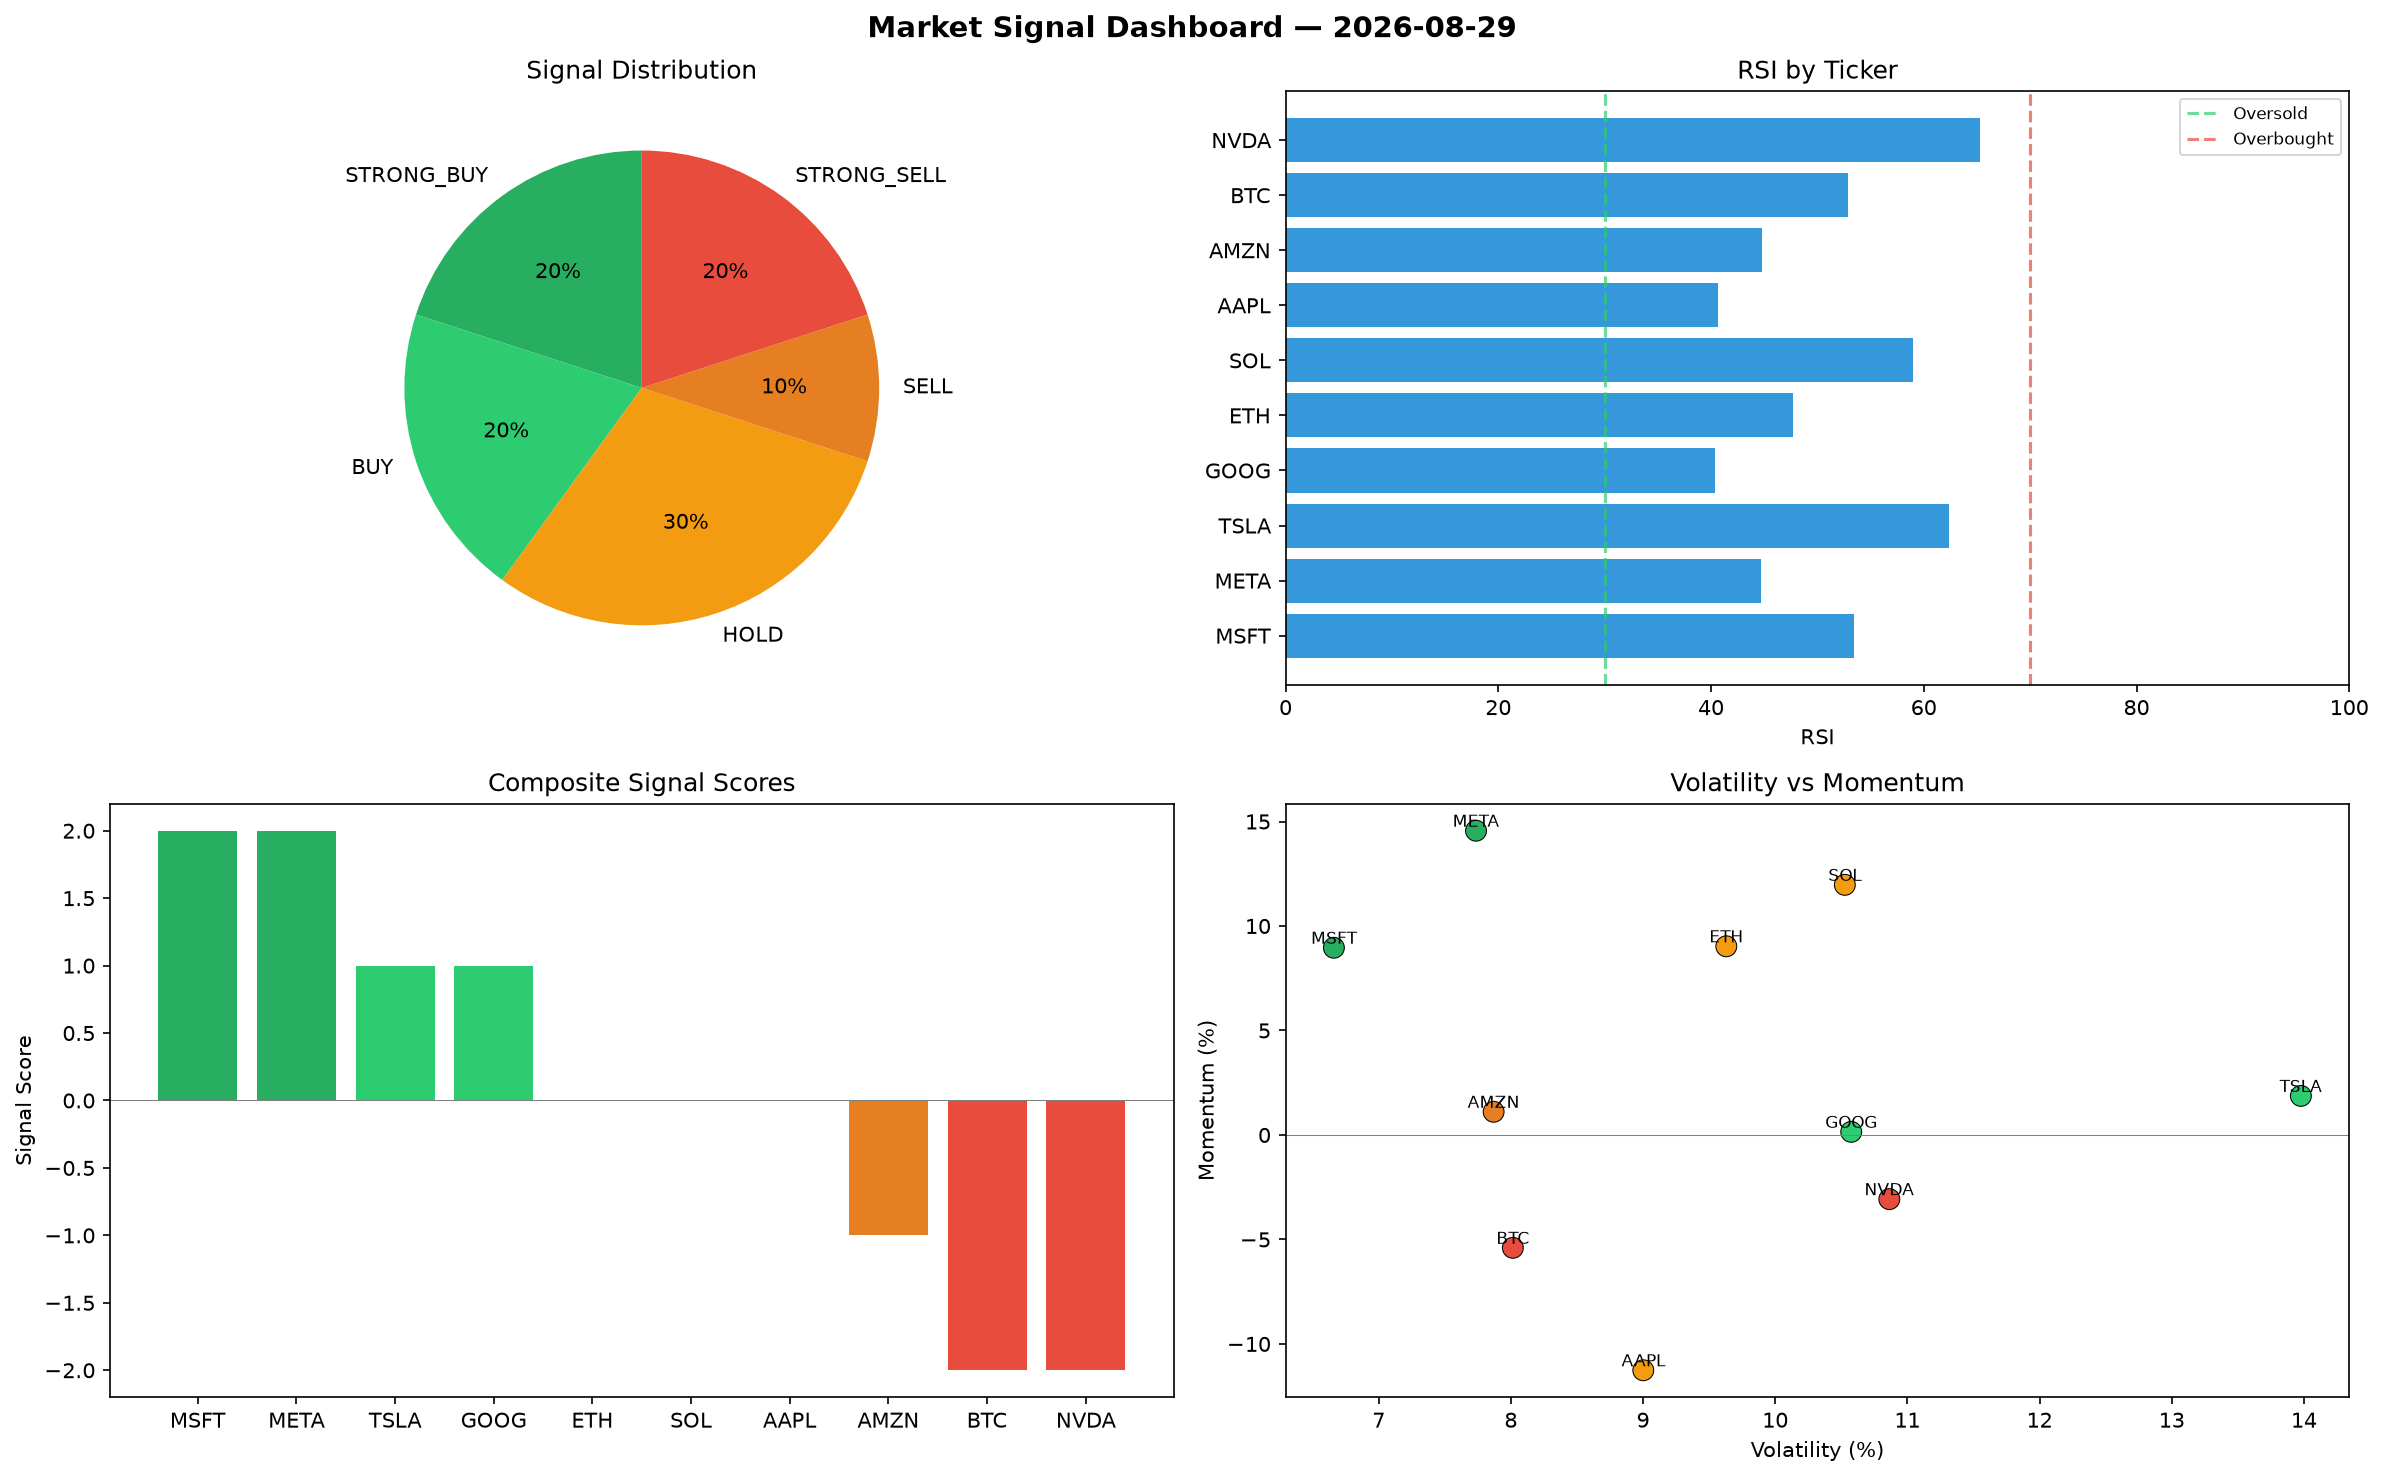
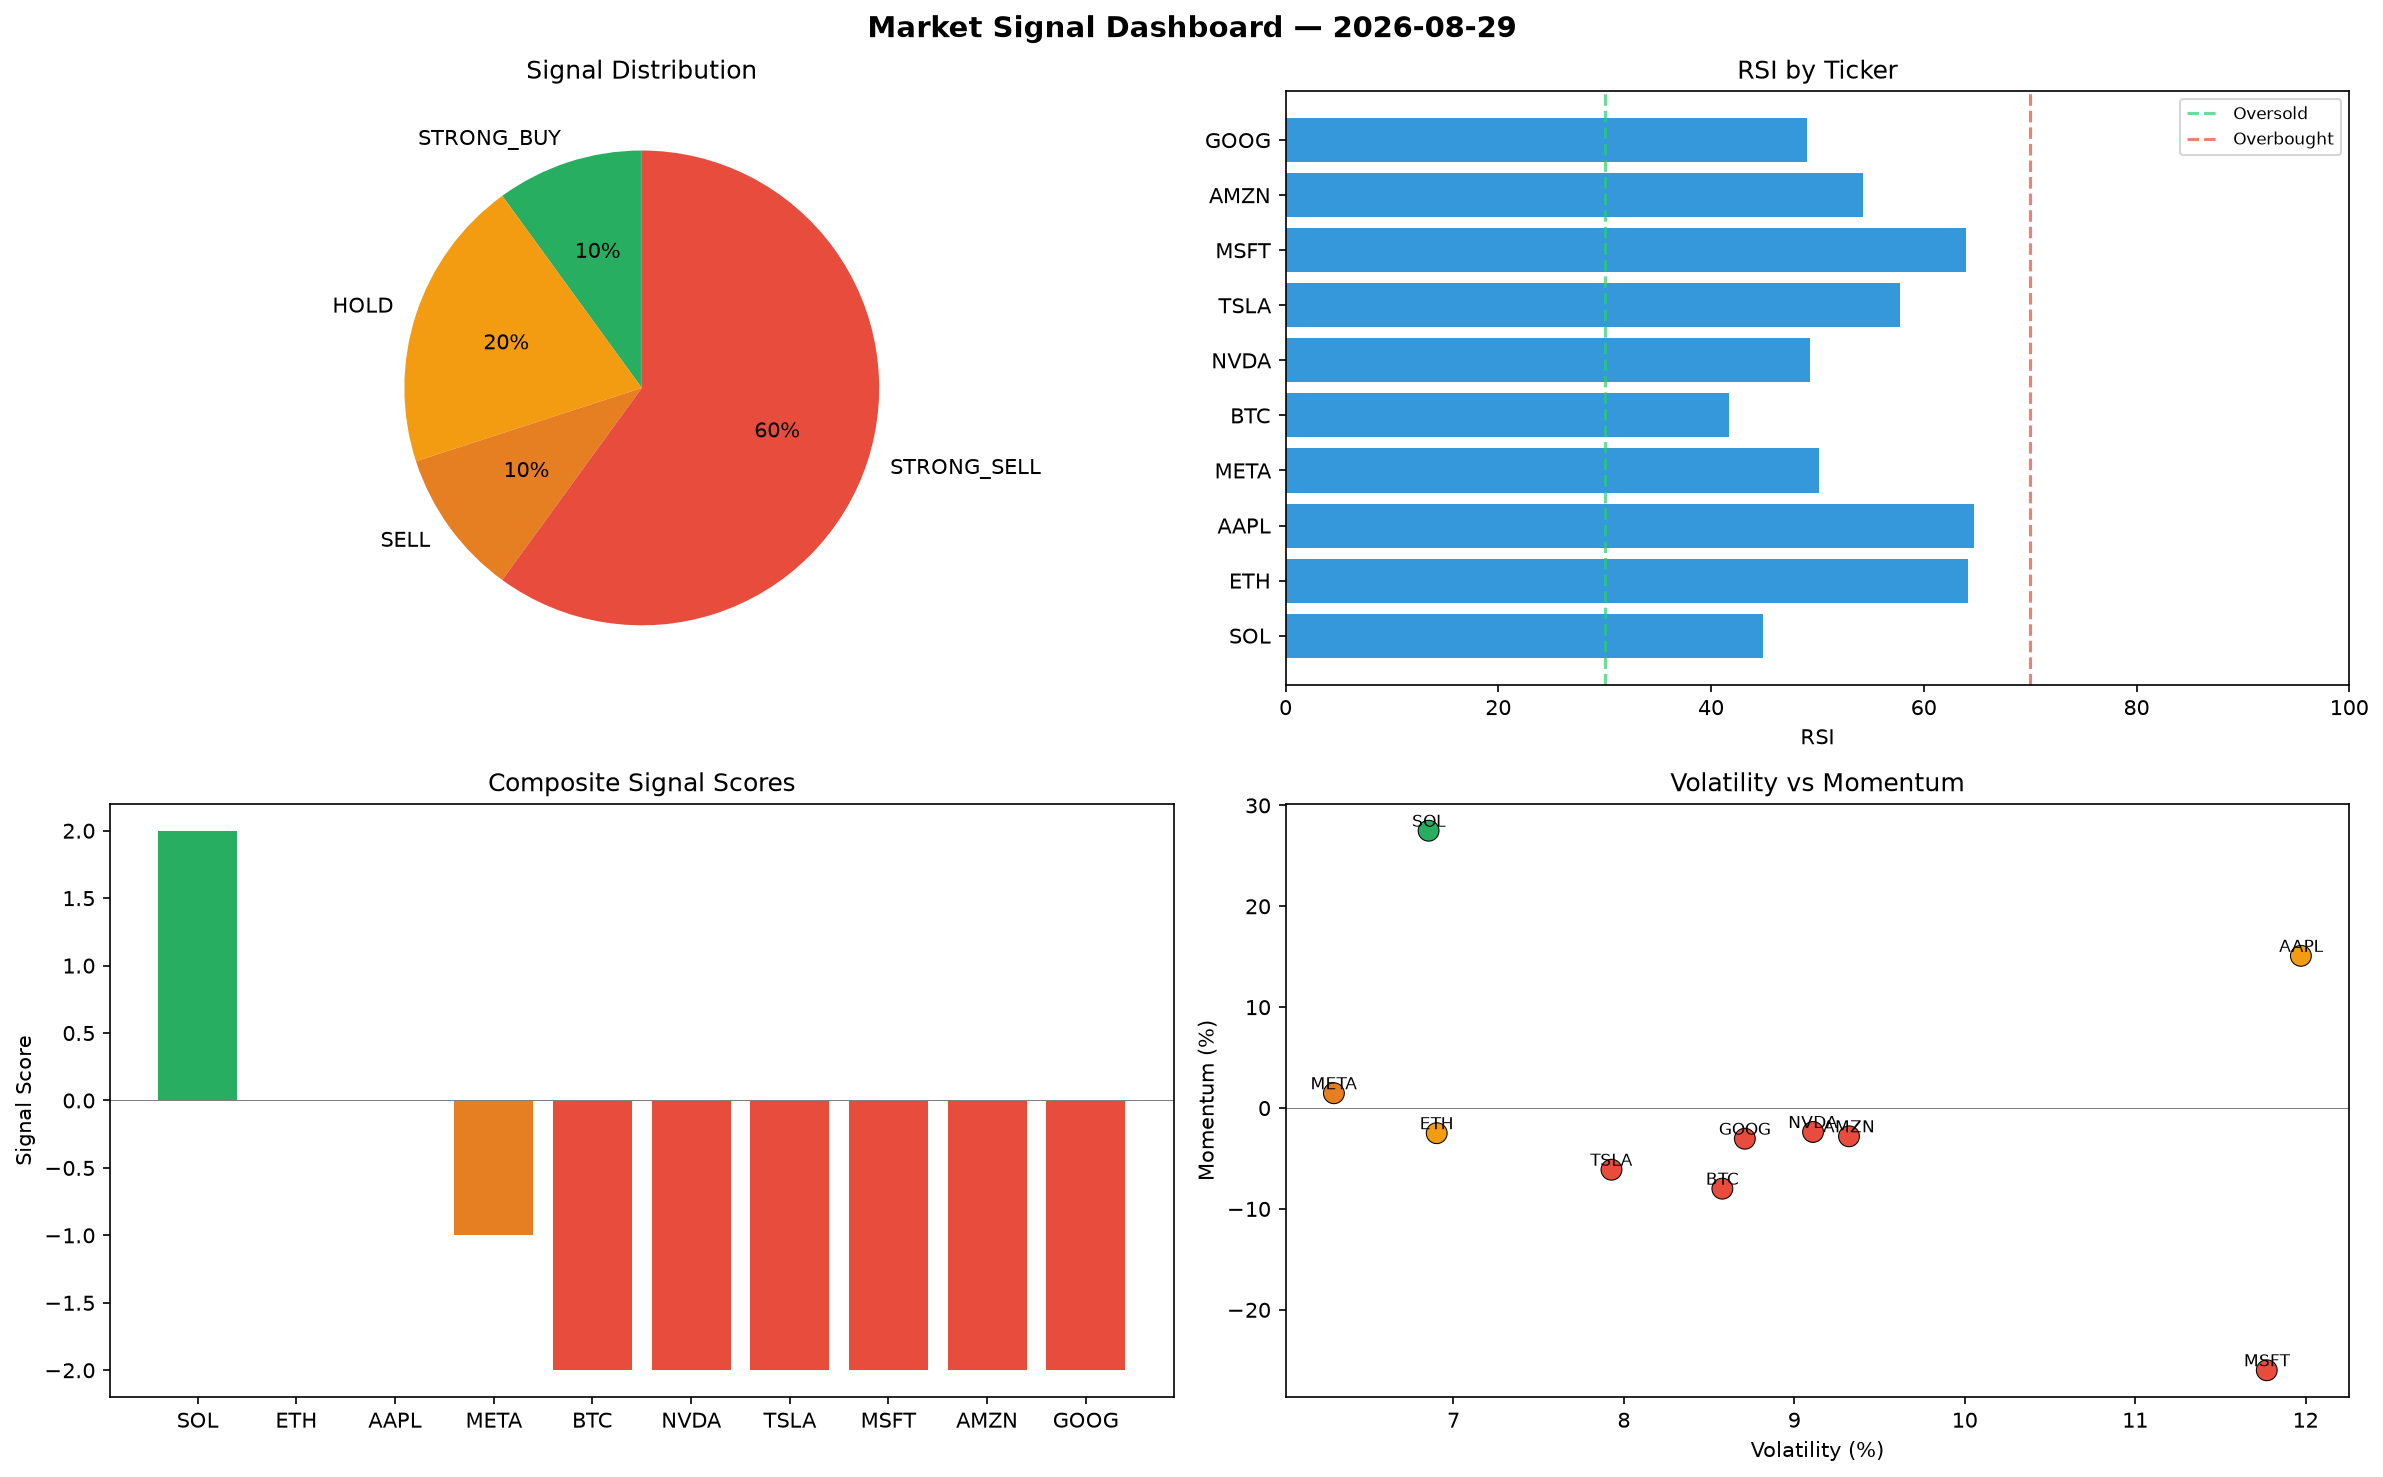
automated-bots: market signals 2026-08-29T09:15

diff --git a/logs/2026-08-29.md b/logs/2026-08-29.md
@@ -1,6 +1,6 @@
 # Market Signal Report — 2026-08-29
 
-**Run ID:** `2268d903f2` | **Buy:** 4 | **Sell:** 3 | **Hold:** 3
+**Run ID:** `b0d88170aa` | **Buy:** 1 | **Sell:** 7 | **Hold:** 2
 
 ![Dashboard](2026-08-29_dashboard.png)
 
@@ -8,28 +8,28 @@
 
 | Ticker | Price | Signal | Score | RSI | Momentum | Confidence |
 |--------|-------|--------|-------|-----|----------|------------|
-| MSFT | $1851.83 | **STRONG_BUY** | 2 | 53.47 | 0.0896 | 0.5 |
-| META | $3069.73 | **STRONG_BUY** | 2 | 44.7 | 0.1456 | 0.5 |
-| TSLA | $68.78 | **BUY** | 1 | 62.4 | 0.0187 | 0.25 |
-| GOOG | $2481.7 | **BUY** | 1 | 40.37 | 0.0015 | 0.25 |
-| ETH | $471.79 | **HOLD** | 0 | 47.68 | 0.0903 | 0.0 |
-| SOL | $3553.85 | **HOLD** | 0 | 58.98 | 0.1197 | 0.0 |
-| AAPL | $2716.12 | **HOLD** | 0 | 40.7 | -0.1126 | 0.0 |
-| AMZN | $69.16 | **SELL** | -1 | 44.83 | 0.0111 | 0.25 |
-| BTC | $2687.04 | **STRONG_SELL** | -2 | 52.86 | -0.054 | 0.5 |
-| NVDA | $2694.57 | **STRONG_SELL** | -2 | 65.28 | -0.0307 | 0.5 |
+| SOL | $5657.13 | **STRONG_BUY** | 2 | 44.84 | 0.2749 | 0.5 |
+| ETH | $3424.1 | **HOLD** | 0 | 64.15 | -0.0249 | 0.0 |
+| AAPL | $733.76 | **HOLD** | 0 | 64.71 | 0.1509 | 0.0 |
+| META | $397.62 | **SELL** | -1 | 50.12 | 0.0147 | 0.25 |
+| BTC | $3723.59 | **STRONG_SELL** | -2 | 41.68 | -0.0799 | 0.5 |
+| NVDA | $3379.5 | **STRONG_SELL** | -2 | 49.3 | -0.0237 | 0.5 |
+| TSLA | $1260.96 | **STRONG_SELL** | -2 | 57.77 | -0.0611 | 0.5 |
+| MSFT | $213.37 | **STRONG_SELL** | -2 | 63.97 | -0.2599 | 0.5 |
+| AMZN | $287.95 | **STRONG_SELL** | -2 | 54.33 | -0.028 | 0.5 |
+| GOOG | $1625.6 | **STRONG_SELL** | -2 | 49.06 | -0.0304 | 0.5 |
 
 ## Delta vs Yesterday
 
 | Ticker | Today | Yesterday | Price Change | Signal Changed |
 |--------|-------|-----------|-------------|----------------|
-| MSFT | STRONG_BUY | STRONG_SELL | 📉 -32.63% | ⚠ YES |
-| META | STRONG_BUY | STRONG_SELL | 📉 -31.03% | ⚠ YES |
-| TSLA | BUY | HOLD | 📉 -98.19% | ⚠ YES |
-| GOOG | BUY | STRONG_SELL | 📈 35.72% | ⚠ YES |
-| ETH | HOLD | STRONG_BUY | 📉 -90.09% | ⚠ YES |
-| SOL | HOLD | STRONG_SELL | 📉 -5.18% | ⚠ YES |
-| AAPL | HOLD | STRONG_SELL | 📉 -5.97% | ⚠ YES |
-| AMZN | SELL | STRONG_BUY | 📉 -97.43% | ⚠ YES |
-| BTC | STRONG_SELL | HOLD | 📈 7.76% | ⚠ YES |
-| NVDA | STRONG_SELL | STRONG_BUY | 📉 -8.75% | ⚠ YES |
+| SOL | STRONG_BUY | STRONG_SELL | 📈 50.93% | ⚠ YES |
+| ETH | HOLD | STRONG_BUY | 📉 -28.06% | ⚠ YES |
+| AAPL | HOLD | STRONG_SELL | 📉 -74.6% | ⚠ YES |
+| META | SELL | STRONG_SELL | 📉 -91.07% | ⚠ YES |
+| BTC | STRONG_SELL | HOLD | 📈 49.33% | ⚠ YES |
+| NVDA | STRONG_SELL | STRONG_BUY | 📈 14.44% | ⚠ YES |
+| TSLA | STRONG_SELL | HOLD | 📉 -66.75% | ⚠ YES |
+| MSFT | STRONG_SELL | STRONG_SELL | 📉 -92.24% | — |
+| AMZN | STRONG_SELL | STRONG_BUY | 📉 -89.29% | ⚠ YES |
+| GOOG | STRONG_SELL | STRONG_SELL | 📉 -11.1% | — |
